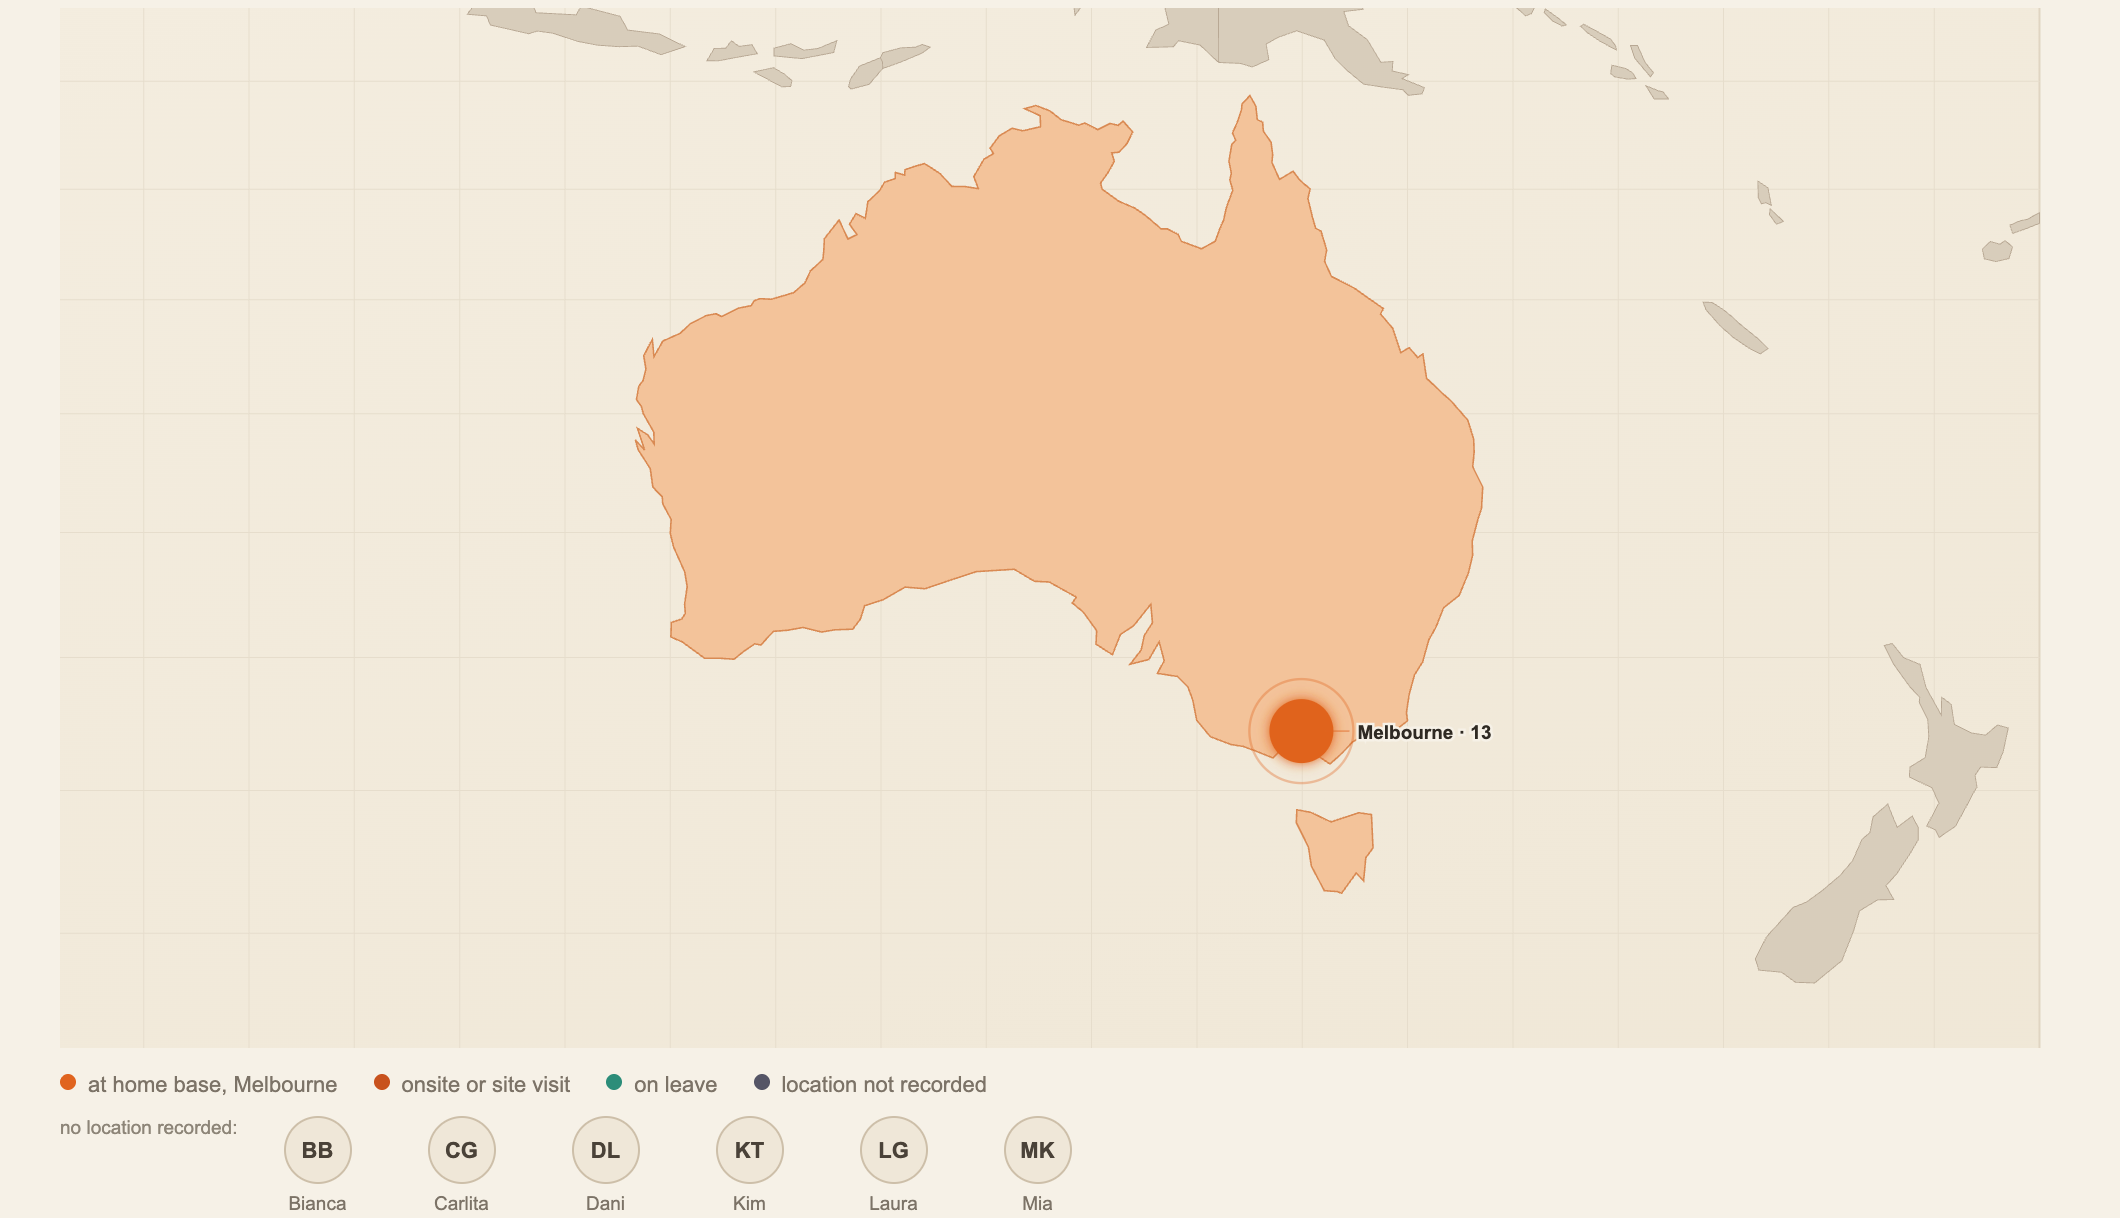
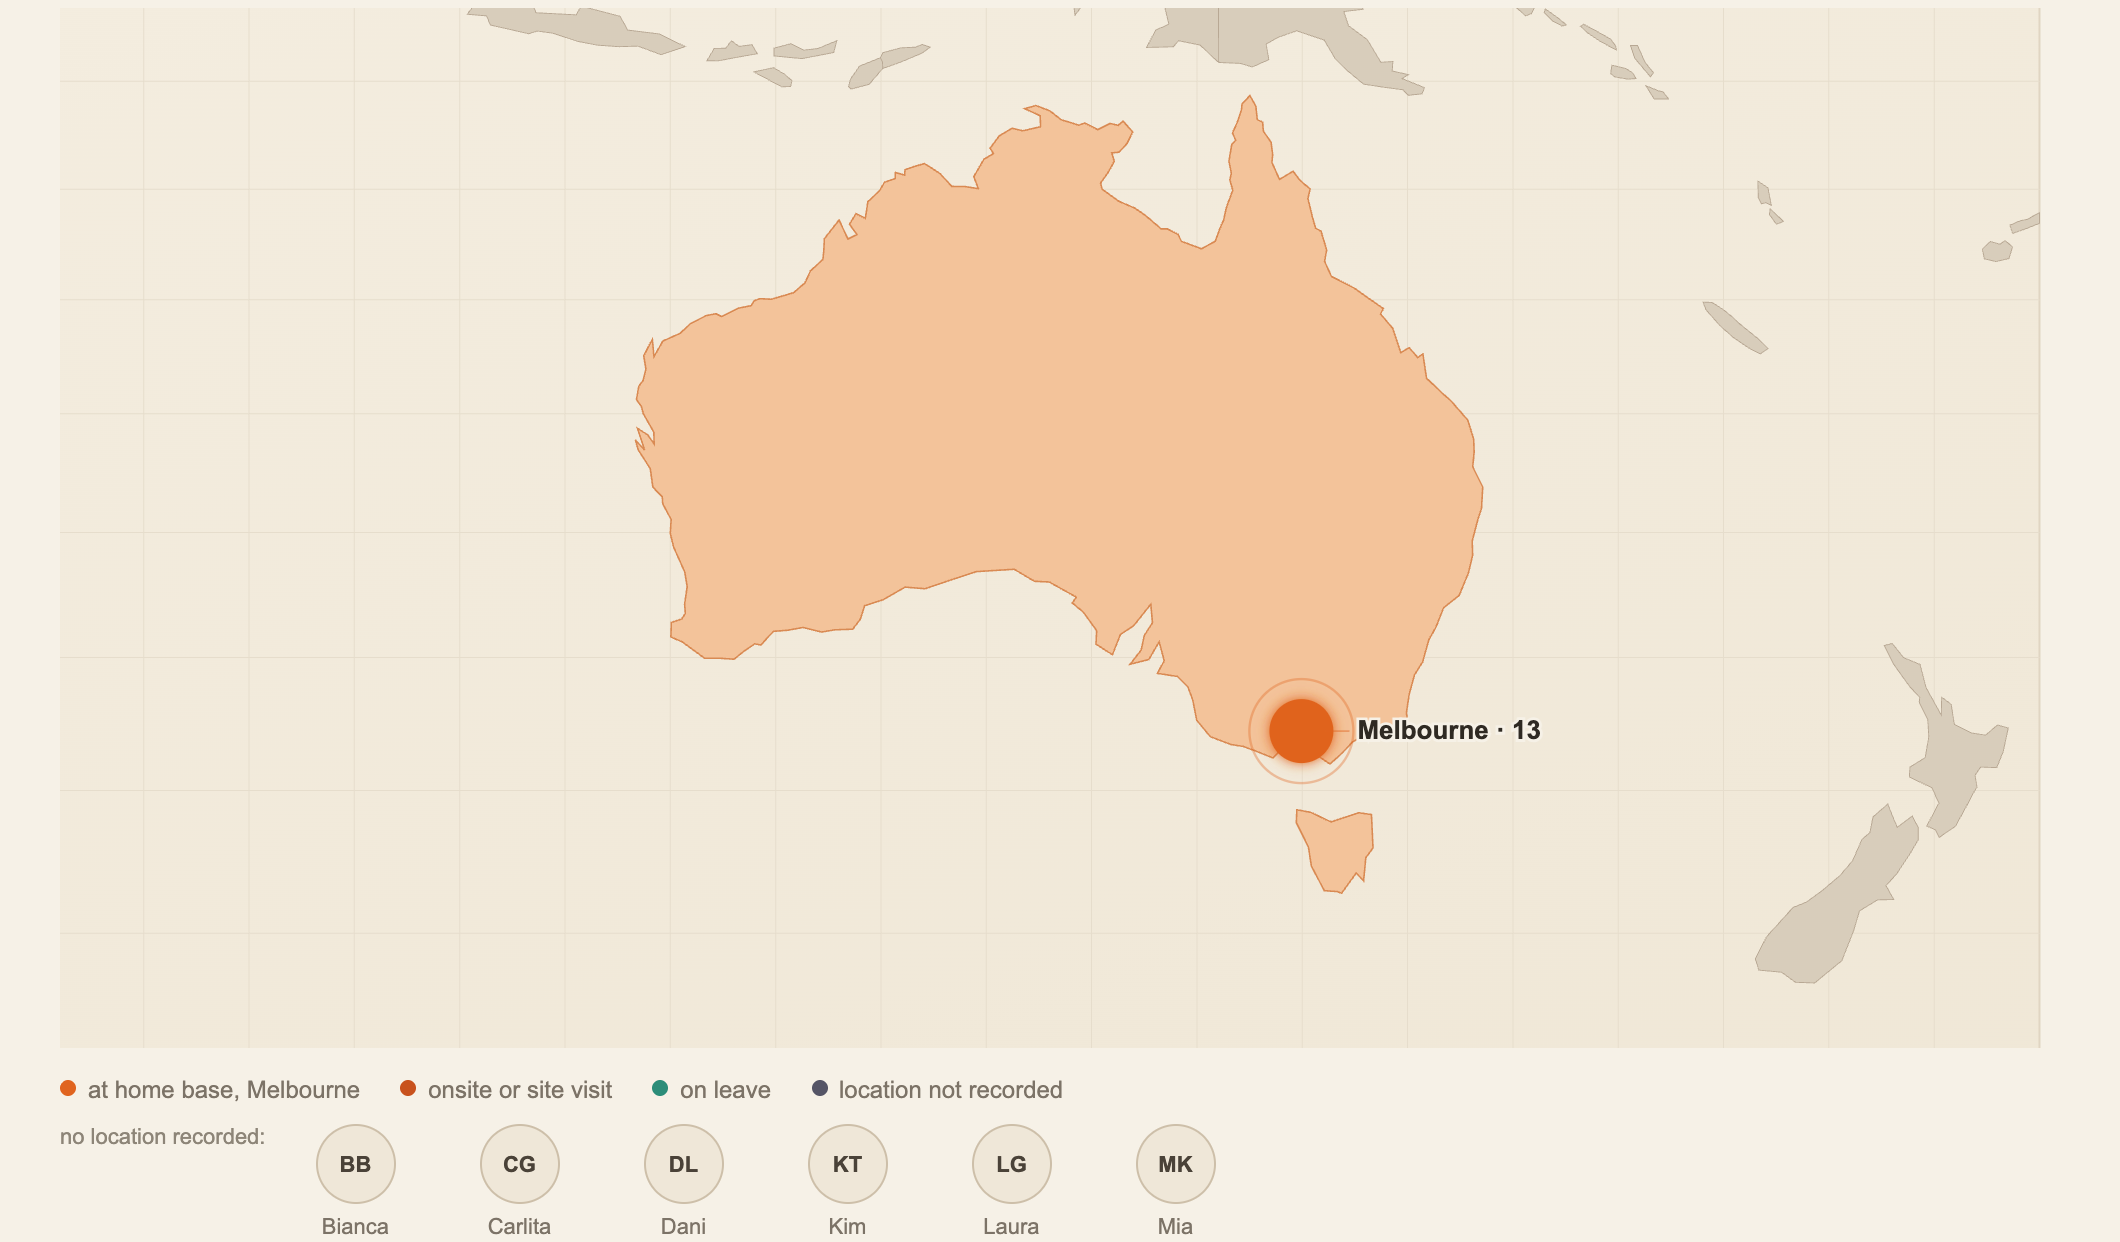
sync: 2026-11-24 12:35

diff --git a/apps/team-map/map.html b/apps/team-map/map.html
@@ -21,14 +21,14 @@
   .ocean{fill:url(#ocean)}
   .pin-core{filter:url(#glow)}
   .graticule{fill:none;stroke:#e6ddcc;stroke-width:.5}
-  .pin-label{font-size:9.5px;fill:#2f2a23;font-weight:600;paint-order:stroke;stroke:#f6f1e7;stroke-width:2.6}
+  .pin-label{font-size:13px;fill:#2f2a23;font-weight:600;paint-order:stroke;stroke:#f6f1e7;stroke-width:3}
   .chip{fill:#1a1d22;stroke:#333a44}
   .chip-text{font-size:10px;fill:var(--muted)}
-  .legend{display:flex;gap:18px;margin-top:12px;font-size:11px;color:var(--muted);flex-wrap:wrap}
+  .legend{display:flex;gap:20px;margin-top:14px;font-size:12px;color:var(--muted);flex-wrap:wrap}
   .dot{display:inline-block;width:8px;height:8px;border-radius:99px;margin-right:6px;vertical-align:1px}
   .unplaced{margin-top:14px;display:flex;gap:8px;flex-wrap:wrap}
-  .face{display:flex;flex-direction:column;align-items:center;gap:4px;width:64px;font-size:9.5px;color:var(--muted);text-align:center}
-  .avatar{width:34px;height:34px;border-radius:99px;background:#efe7d8;border:1px solid #cdbfa9;
+  .face{display:flex;flex-direction:column;align-items:center;gap:5px;width:74px;font-size:11px;color:var(--muted);text-align:center}
+  .avatar{width:40px;height:40px;border-radius:99px;background:#efe7d8;border:1px solid #cdbfa9;
           display:grid;place-items:center;font-size:11px;color:#4a4238;font-weight:600}
 </style>
 </head>
